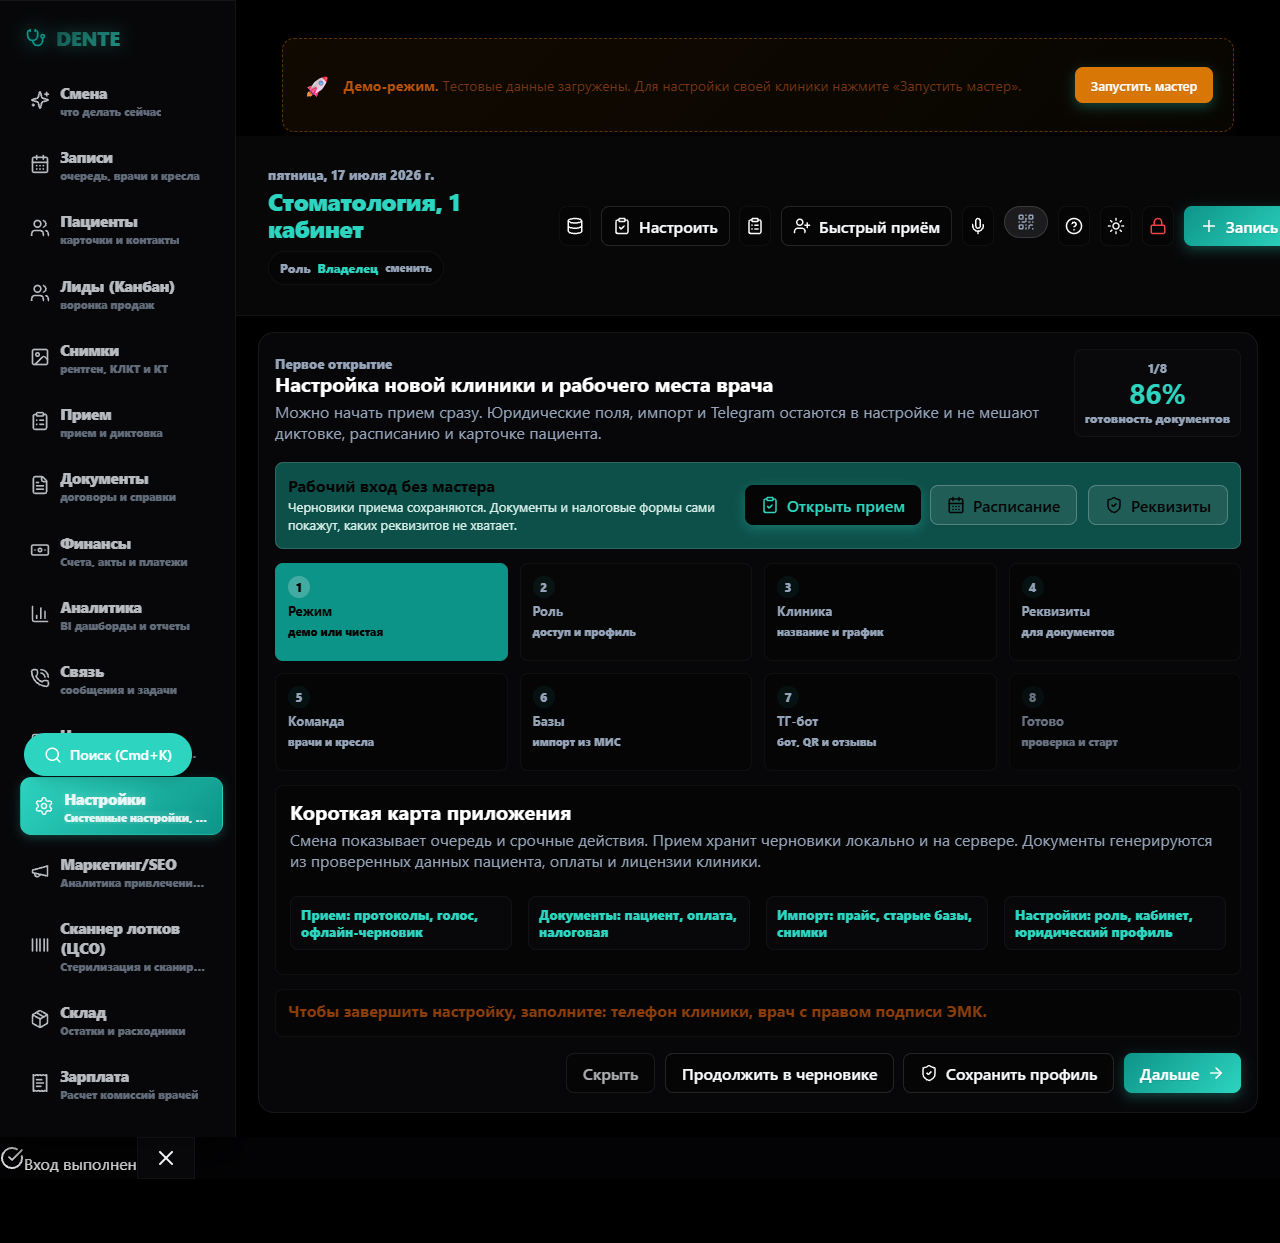
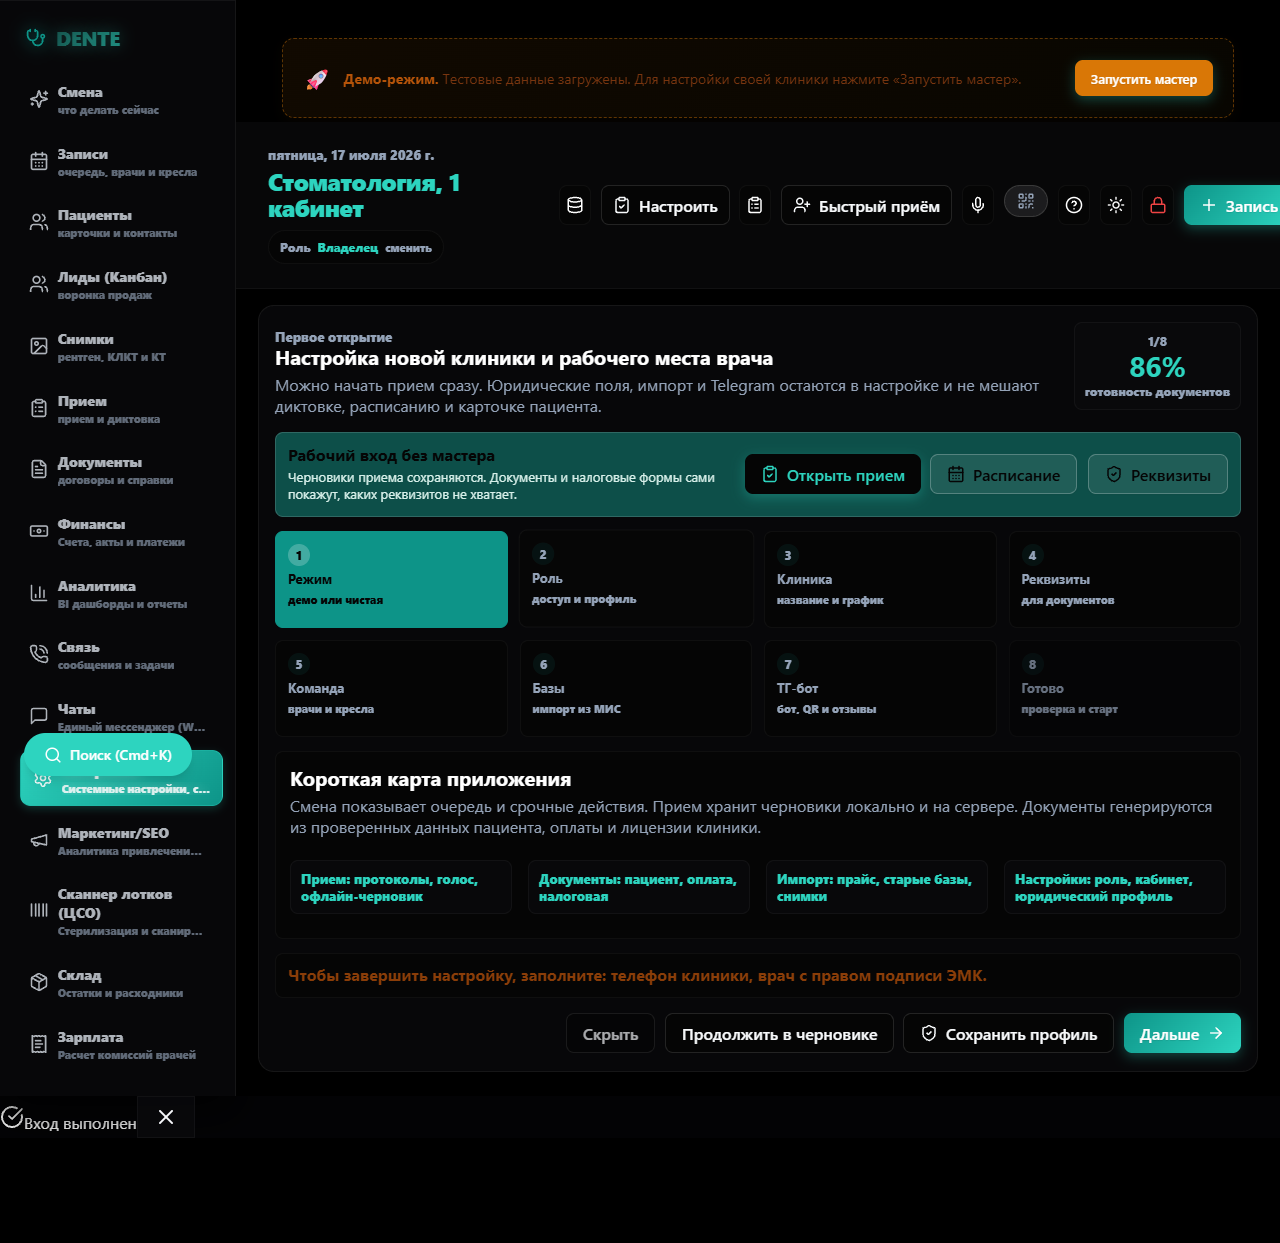
fix(analytics): replace hardcoded LTV stub with real DB cohort queries; add KPI cards

diff --git a/apps/web/src/hooks/useWorkspaceProfile.ts b/apps/web/src/hooks/useWorkspaceProfile.ts
@@ -141,14 +141,53 @@ export async function applyWorkspacePreset(
 		hasPediatricMode?: boolean;
 	},
 ): Promise<WorkspaceFeatureFlags> {
-	const res = await fetch(`/api/workspace/preset/${presetName}`, {
-		method: "POST",
-		headers: { "Content-Type": "application/json" },
-		body: JSON.stringify(extraData || {}),
-	});
-	if (!res.ok) throw new Error(`Failed to apply preset: ${presetName}`);
-	const body = await res.json();
-	const flags = body.flags as WorkspaceFeatureFlags;
+	let flags: WorkspaceFeatureFlags;
+	
+	try {
+		const res = await fetch(`/api/workspace/preset/${presetName}`, {
+			method: "POST",
+			headers: { "Content-Type": "application/json" },
+			body: JSON.stringify(extraData || {}),
+		});
+		if (!res.ok) throw new Error(`Failed to apply preset: ${presetName}`);
+		const body = await res.json();
+		flags = body.flags as WorkspaceFeatureFlags;
+	} catch (error) {
+		console.warn("Failed to fetch preset from server, using local fallback:", error);
+		// Local fallback for offline/MVP mode
+		const baseFlags = { ...useWorkspaceProfileStore.getState() };
+		
+		if (presetName === "solo") {
+			baseFlags.hasAssistants = false;
+			baseFlags.hasMultipleChairs = false;
+			baseFlags.hasPayrollModule = false;
+			baseFlags.hasMarketingModule = false;
+			baseFlags.hasAnalyticsModule = false;
+			baseFlags.hasTasks = false;
+			baseFlags.numberOfDoctors = 1;
+		} else if (presetName === "clinic") {
+			baseFlags.hasAssistants = true;
+			baseFlags.hasMultipleChairs = true;
+			baseFlags.hasPayrollModule = true;
+			baseFlags.hasMarketingModule = true;
+			baseFlags.hasAnalyticsModule = true;
+			baseFlags.hasTasks = true;
+			baseFlags.numberOfDoctors = 4;
+		} else if (presetName === "enterprise") {
+			baseFlags.hasAssistants = true;
+			baseFlags.hasMultipleChairs = true;
+			baseFlags.hasDentalLab = true;
+			baseFlags.hasPayrollModule = true;
+			baseFlags.hasMarketingModule = true;
+			baseFlags.hasAnalyticsModule = true;
+			baseFlags.hasTasks = true;
+			baseFlags.hasOrthodontics = true;
+			baseFlags.numberOfDoctors = 10;
+		}
+		
+		baseFlags.workspacePreset = presetName;
+		flags = baseFlags;
+	}
 
 	if (extraData?.hasPediatricMode !== undefined) {
 		flags.hasPediatricMode = extraData.hasPediatricMode;
@@ -171,15 +210,20 @@ export async function applyWorkspacePreset(
 export async function saveWorkspaceFlags(
 	partial: Partial<WorkspaceFeatureFlags>,
 ): Promise<void> {
-	await fetch("/api/workspace/profile", {
-		method: "POST",
-		headers: { "Content-Type": "application/json" },
-		body: JSON.stringify(partial),
-	});
-	// Update local store
+	try {
+		await fetch("/api/workspace/profile", {
+			method: "POST",
+			headers: { "Content-Type": "application/json" },
+			body: JSON.stringify(partial),
+		});
+	} catch (error) {
+		console.warn("Failed to sync workspace flags with server, updating locally only:", error);
+	}
+	
+	// Update local store regardless of server response for MVP offline capability
 	const store = useWorkspaceProfileStore.getState();
 	for (const [k, v] of Object.entries(partial)) {
-		store.setFlag(k as keyof WorkspaceFeatureFlags, v as boolean | string);
+		store.setFlag(k as keyof WorkspaceFeatureFlags, v as boolean | string | number);
 	}
 }
 

diff --git a/apps/api/src/routes/analytics.ts b/apps/api/src/routes/analytics.ts
@@ -217,7 +217,7 @@ export async function registerAnalyticsRoutes(app: FastifyInstance) {
 				.slice(-6) // Last 6 months for readability
 				.map(([key, { m1, m12 }]) => {
 					const [, monthStr] = key.split("-");
-					const monthIdx = parseInt(monthStr, 10) - 1;
+					const monthIdx = monthStr ? parseInt(monthStr, 10) - 1 : 0;
 					const label = RU_MONTHS[monthIdx] ?? key;
 					const avg = (arr: number[]) =>
 						arr.length ? Math.round(arr.reduce((a, b) => a + b, 0) / arr.length) : 0;